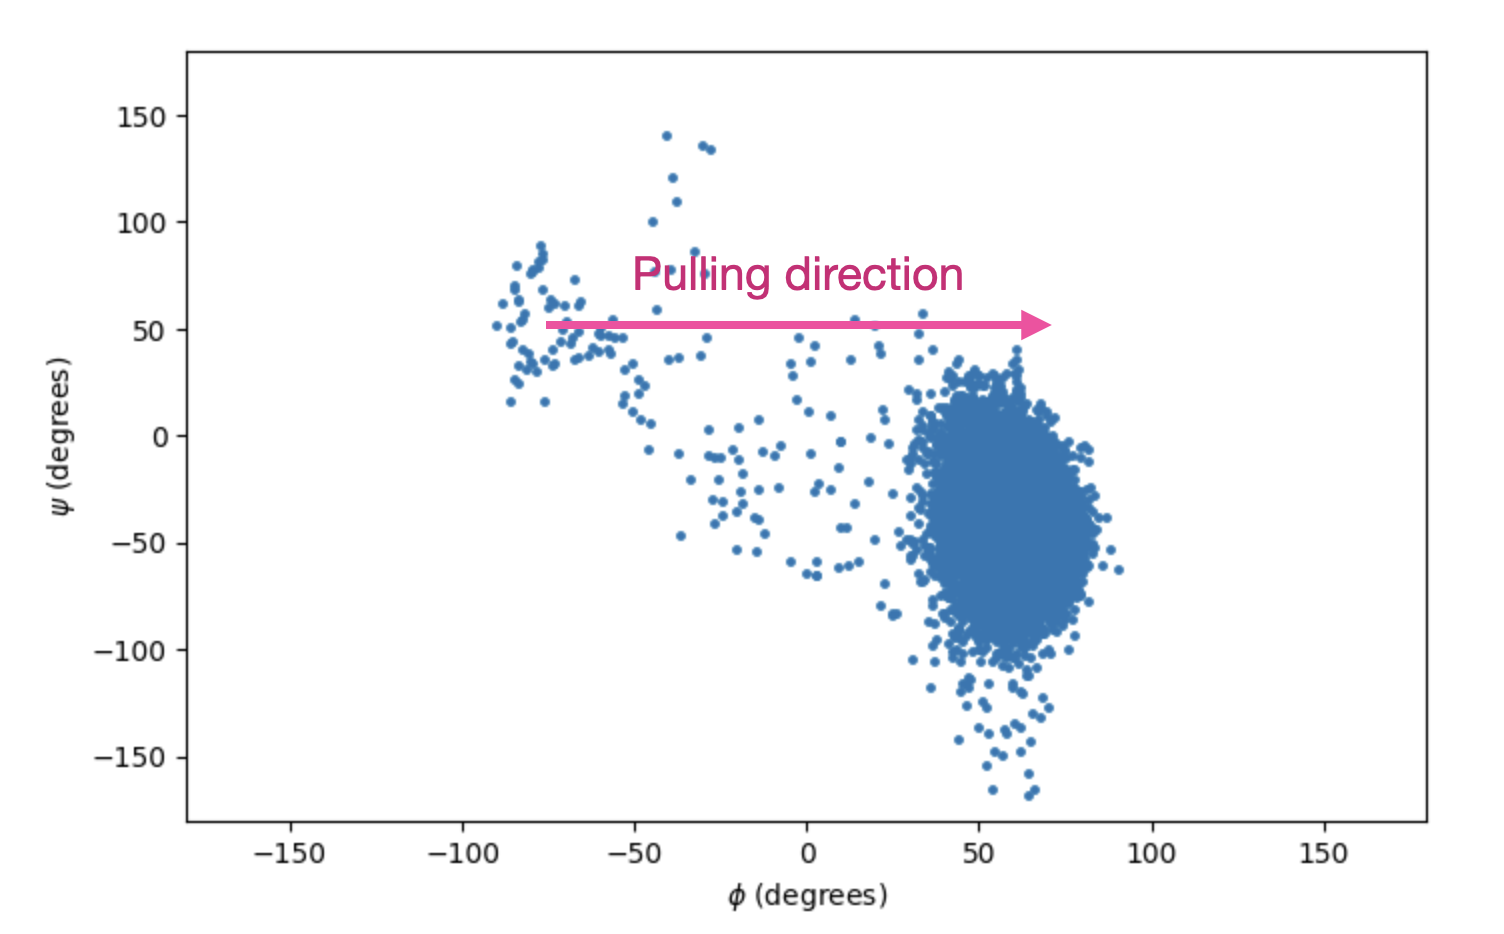
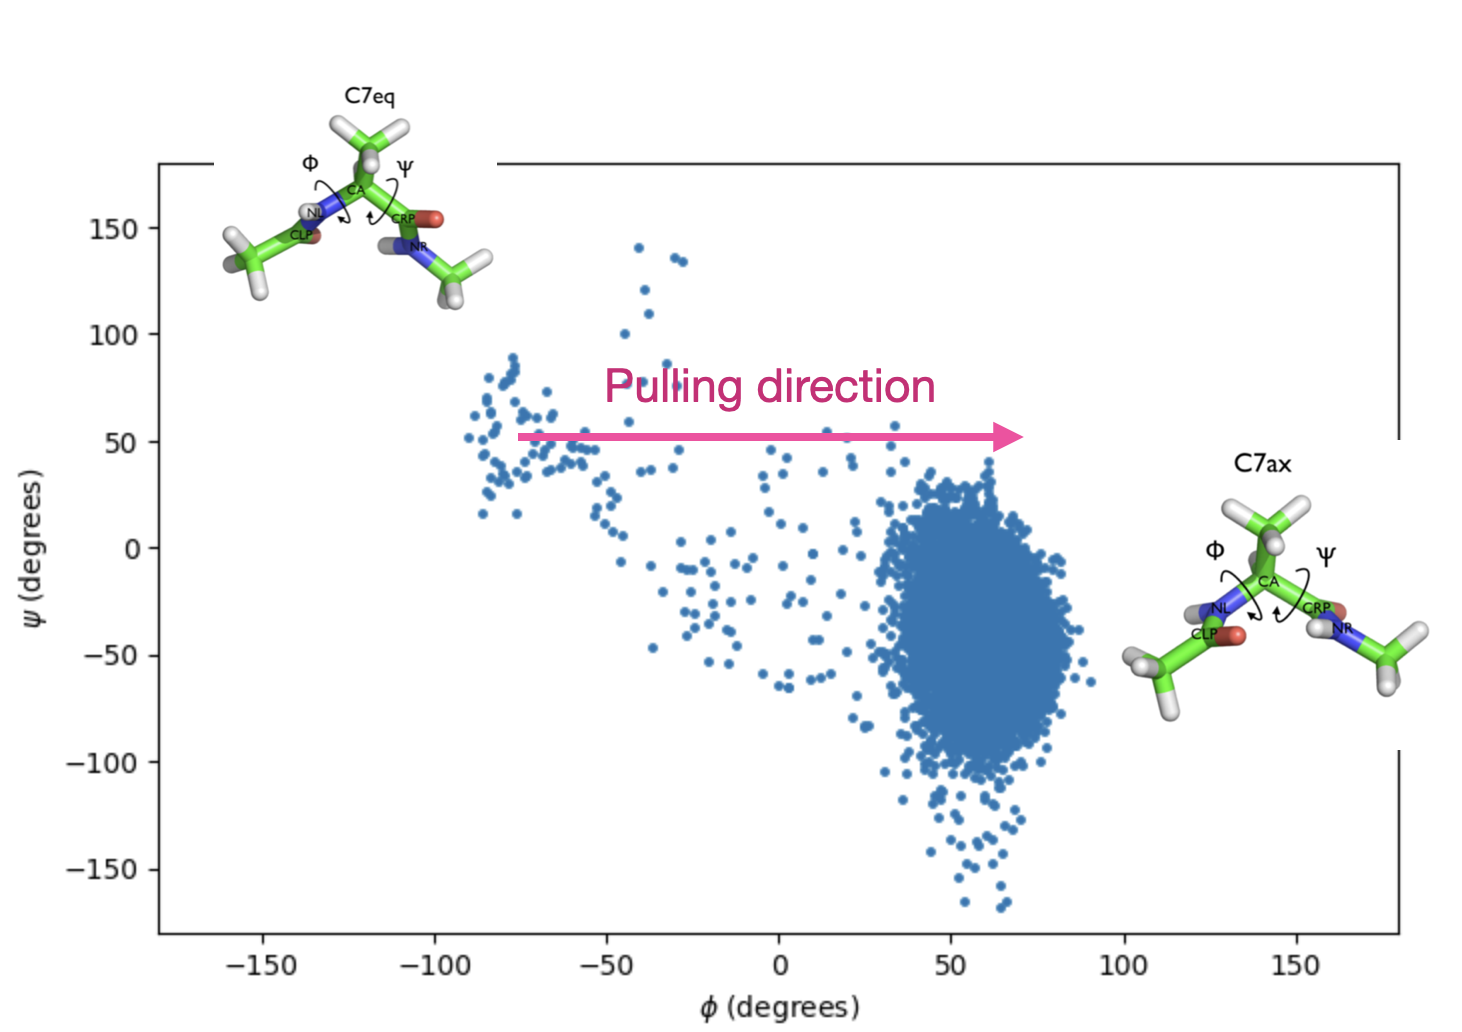
added 2D plot for moving restraint

diff --git a/day2/restraints/restraints.md b/day2/restraints/restraints.md
@@ -223,6 +223,12 @@ The plot of the $$\phi$$ value over the first 200 ps shows the result of our out
 
 ![Figure_pulling](../../images/Figure_pulling_phi.png)
 
+We visualize this on a 2-D Ramachandran plot where each point is a frame from the simulation plotting the $$\phi$$ vs. $$\psi$$ value. Notice that by pulling along the $$\phi$$ coordinate, we were able to force the transition from the C7eq to the C7ax state. 
+
+![Figure_pulling](../../images/Figure_pulling_phi_Ramachandran.png)
+
+  
+
 ## (Optional) Umbrella Sampling in PLUME
 
 